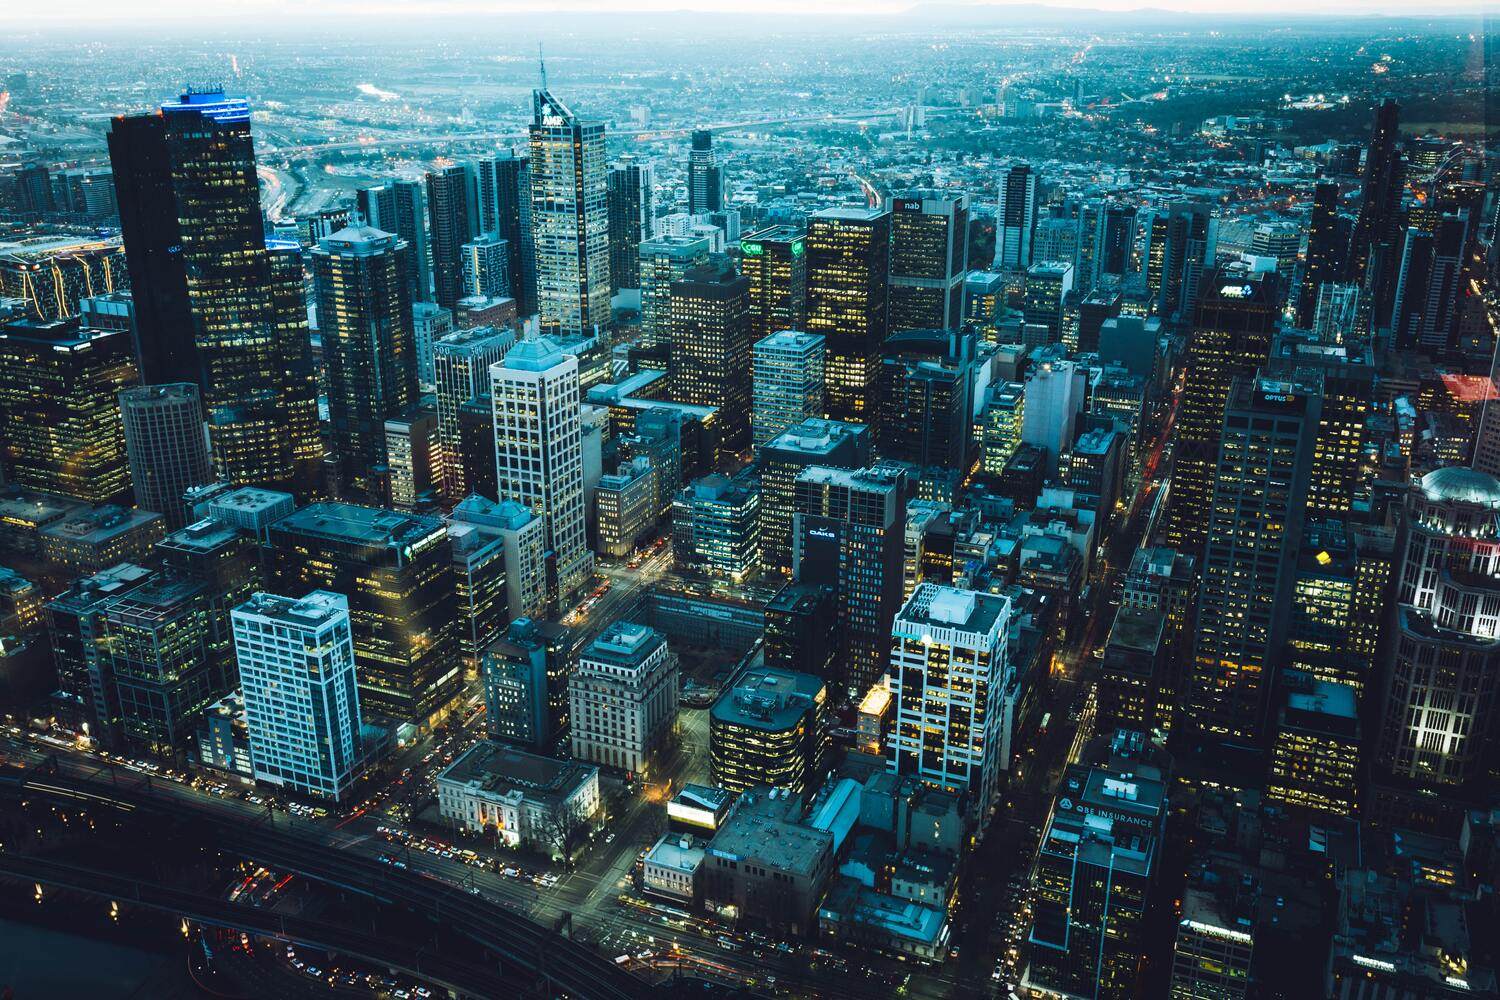
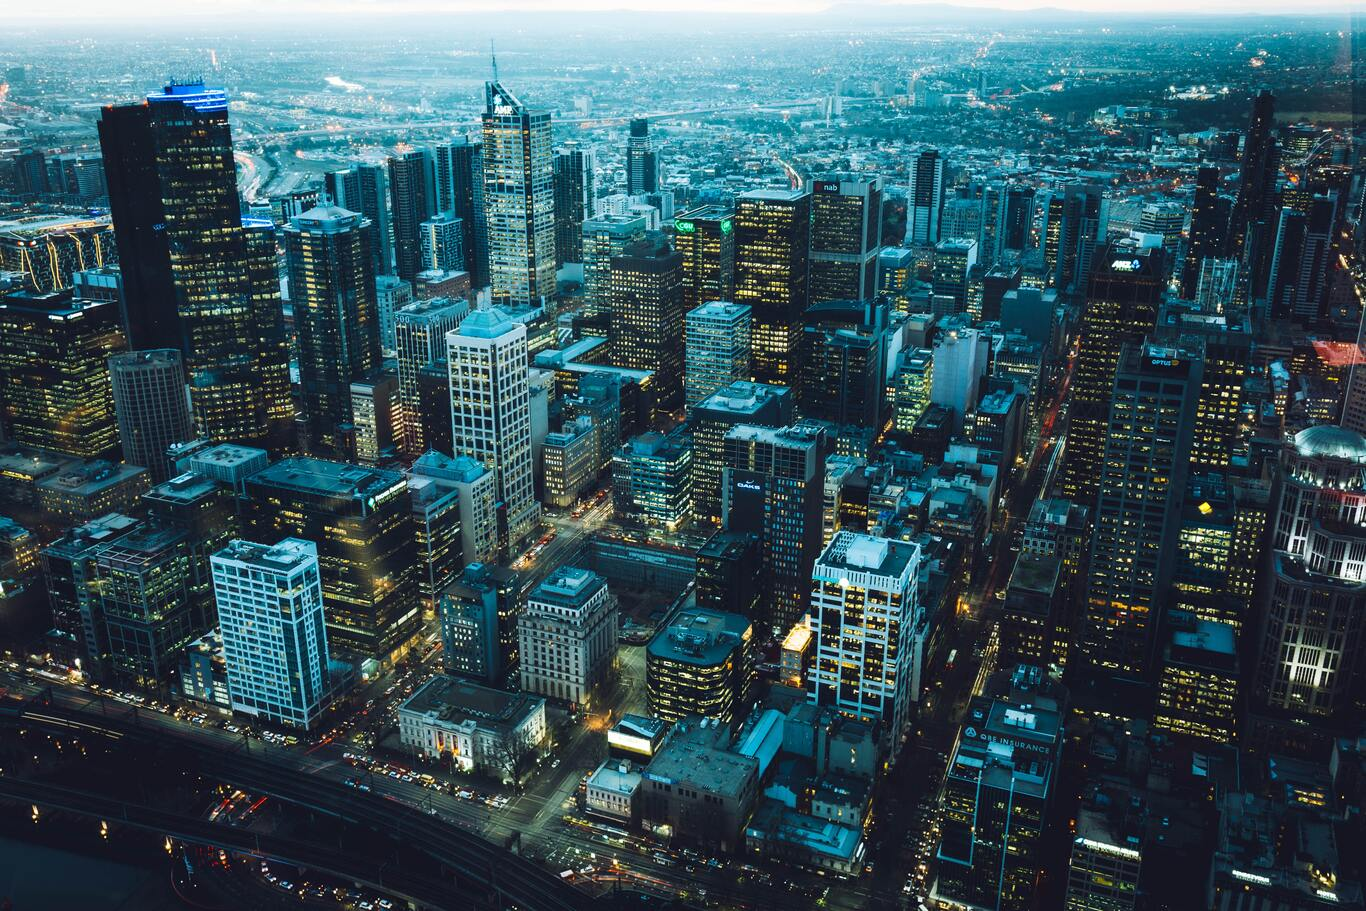
Image optimization

diff --git a/src/script.js b/src/script.js
@@ -54,11 +54,9 @@ function close_gall(closeTime) {
         switch (closeTime) {
             case "together":
                 setTimeout(() => {
-                    menu_item.forEach(delayLoop(disappear, 0));
+                    menu_item.forEach(delayLoop(disappear, 10));
+                    //menu_item.forEach(off);
                 }, 800);
-                break;
-            case "in_turn":
-                menu_item.forEach(delayLoop(disappear, 50));
                 break;
             default:
                 menu_item.forEach(delayLoop(disappear, 50));
@@ -113,46 +111,46 @@ function load() {
                     deleteElement();
                     addDiv.style.backgroundImage = `url(./images/${id_back}.jpg)`;
                     setTimeout(() => {
-                        back.style.backgroundImage = `url(./images/${id_back}.jpg)`;
+                        back.style.backgroundImage = `url(./imagesHD/${id_back}.jpg)`;
                     }, 1000);
                     break;
                 case "2":
                     deleteElement();
                     addDiv.style.backgroundImage = `url(./images/${id_back}.jpg)`;
                     setTimeout(() => {
-                        back.style.backgroundImage = `url(./images/${id_back}.jpg)`;
+                        back.style.backgroundImage = `url(./imagesHD/${id_back}.jpg)`;
                     }, 1000);
                     break;
                 case "3":
                     deleteElement();
                     addDiv.style.backgroundImage = `url(./images/${id_back}.jpg)`;
                     setTimeout(() => {
-                        back.style.backgroundImage = `url(./images/${id_back}.jpg)`;
+                        back.style.backgroundImage = `url(./imagesHD/${id_back}.jpg)`;
                     }, 1000);
                     break;
                 case "4":
                     deleteElement();
                     addDiv.style.backgroundImage = `url(./images/${id_back}.jpg)`;
                     setTimeout(() => {
-                        back.style.backgroundImage = `url(./images/${id_back}.jpg)`;
+                        back.style.backgroundImage = `url(./imagesHD/${id_back}.jpg)`;
                     }, 1000);
                     break;
                 case "5":
                     deleteElement();
                     addDiv.style.backgroundImage = `url(./images/${id_back}.jpg)`;
                     setTimeout(() => {
-                        back.style.backgroundImage = `url(./images/${id_back}.jpg)`;
+                        back.style.backgroundImage = `url(./imagesHD/${id_back}.jpg)`;
                     }, 1000);
                     break;
                 case "6":
                     deleteElement();
                     addDiv.style.backgroundImage = `url(./images/${id_back}.jpg)`;
                     setTimeout(() => {
-                        back.style.backgroundImage = `url(./images/${id_back}.jpg)`;
+                        back.style.backgroundImage = `url(./imagesHD/${id_back}.jpg)`;
                     }, 1000);
                     break;
                 default:
-                    back.style.backgroundImage = `url(./images/1.jpg)`;
+                    back.style.backgroundImage = `url(./imagesHD/1.jpg)`;
                     break;
             }
             close_gall("together");

diff --git a/src/index.html b/src/index.html
@@ -47,7 +47,7 @@
                                 <div class="img-div"></div>
                             </div>
                             <div class="card-name">
-                                <p class="art-name">СТАКАН С ВОДОЙ</p>
+                                <p class="art-name">Вечерний город</p>
                             </div>
                         </div>
                     </div>
@@ -57,7 +57,7 @@
                                 <div class="img-div"></div>
                             </div>
                             <div class="card-name">
-                                <p class="art-name">ПЛАЧУЩИЙ КОТИК</p>
+                                <p class="art-name">Водопад</p>
                             </div>
                         </div>
                     </div>
@@ -67,7 +67,7 @@
                                 <div class="img-div"></div>
                             </div>
                             <div class="card-name">
-                                <p class="art-name">Johnny Depp</p>
+                                <p class="art-name">Розовые облака</p>
                             </div>
                         </div>
                     </div>
@@ -77,7 +77,7 @@
                                 <div class="img-div"></div>
                             </div>
                             <div class="card-name">
-                                <p class="art-name">ART NAME</p>
+                                <p class="art-name">Ночной город с высоты птичьего полета</p>
                             </div>
                         </div>
                     </div>
@@ -87,7 +87,7 @@
                                 <div class="img-div"></div>
                             </div>
                             <div class="card-name">
-                                <p class="art-name">Чашка с ложкой на блюдце</p>
+                                <p class="art-name">Туман и горы</p>
                             </div>
                         </div>
                     </div>
@@ -97,7 +97,7 @@
                                 <div class="img-div"></div>
                             </div>
                             <div class="card-name">
-                                <p class="art-name">ART NAME</p>
+                                <p class="art-name">Сумерки</p>
                             </div>
                         </div>
                     </div>

diff --git a/src/styles.css b/src/styles.css
@@ -3,15 +3,17 @@
     margin: 0;
 }
 html {
-    height: 100%;
-    width: 100%;
+    height: 100vw;
+    width: 100vw;
     overflow: hidden;
+    background-color: black;
 }
 body {
     height: 100%;
     width: 100%;
-    background-size: 100%;
-    background-image: url(./images/1.jpg);
+    background-size: 100vw;
+    background-repeat: no-repeat;
+    background-image: url(./imagesHD/1.jpg);
     transition: 0.3s;
 }
 .blackout {
@@ -117,6 +119,7 @@ footer {
         transform: translate(0, 400px);
     }
 }
+
 @keyframes neww {
     0% {
         width: 1%;
@@ -198,7 +201,8 @@ h1 {
 
 .circle {
     position:static;
-    background-size: 100%;
+    background-size: 100vw;
+    background-repeat: no-repeat;
     transition: 1.5s;
     z-index: 4;
 }
